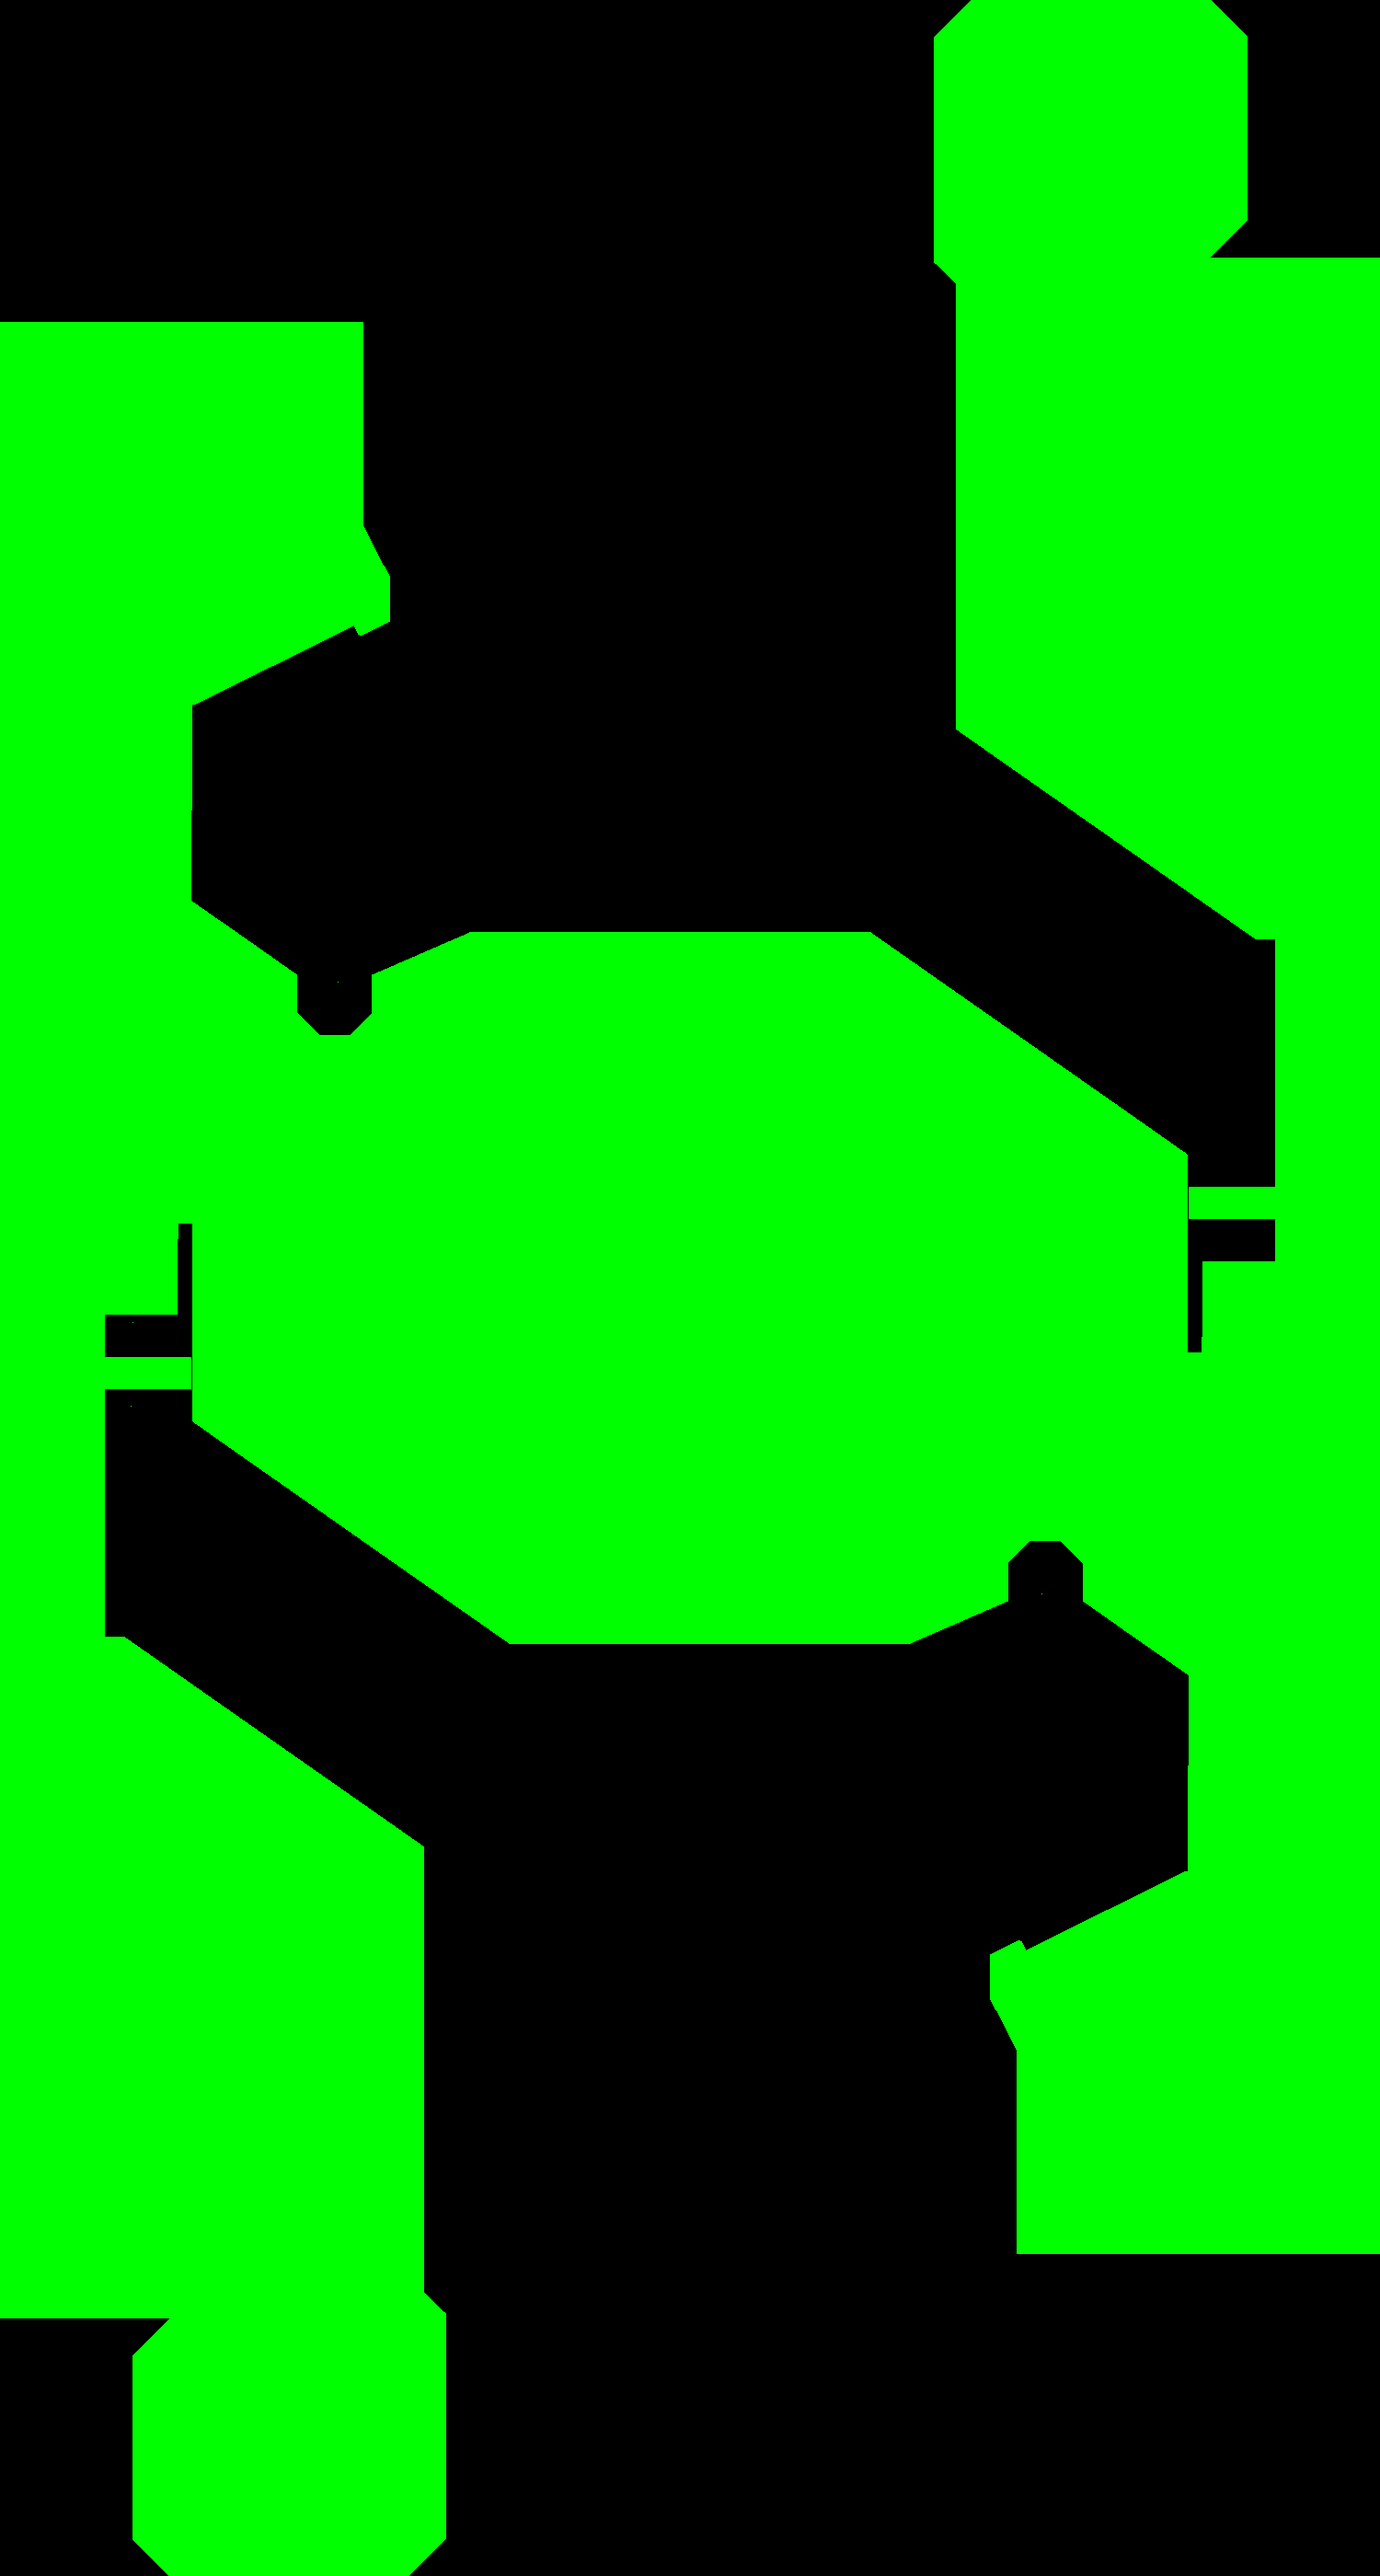
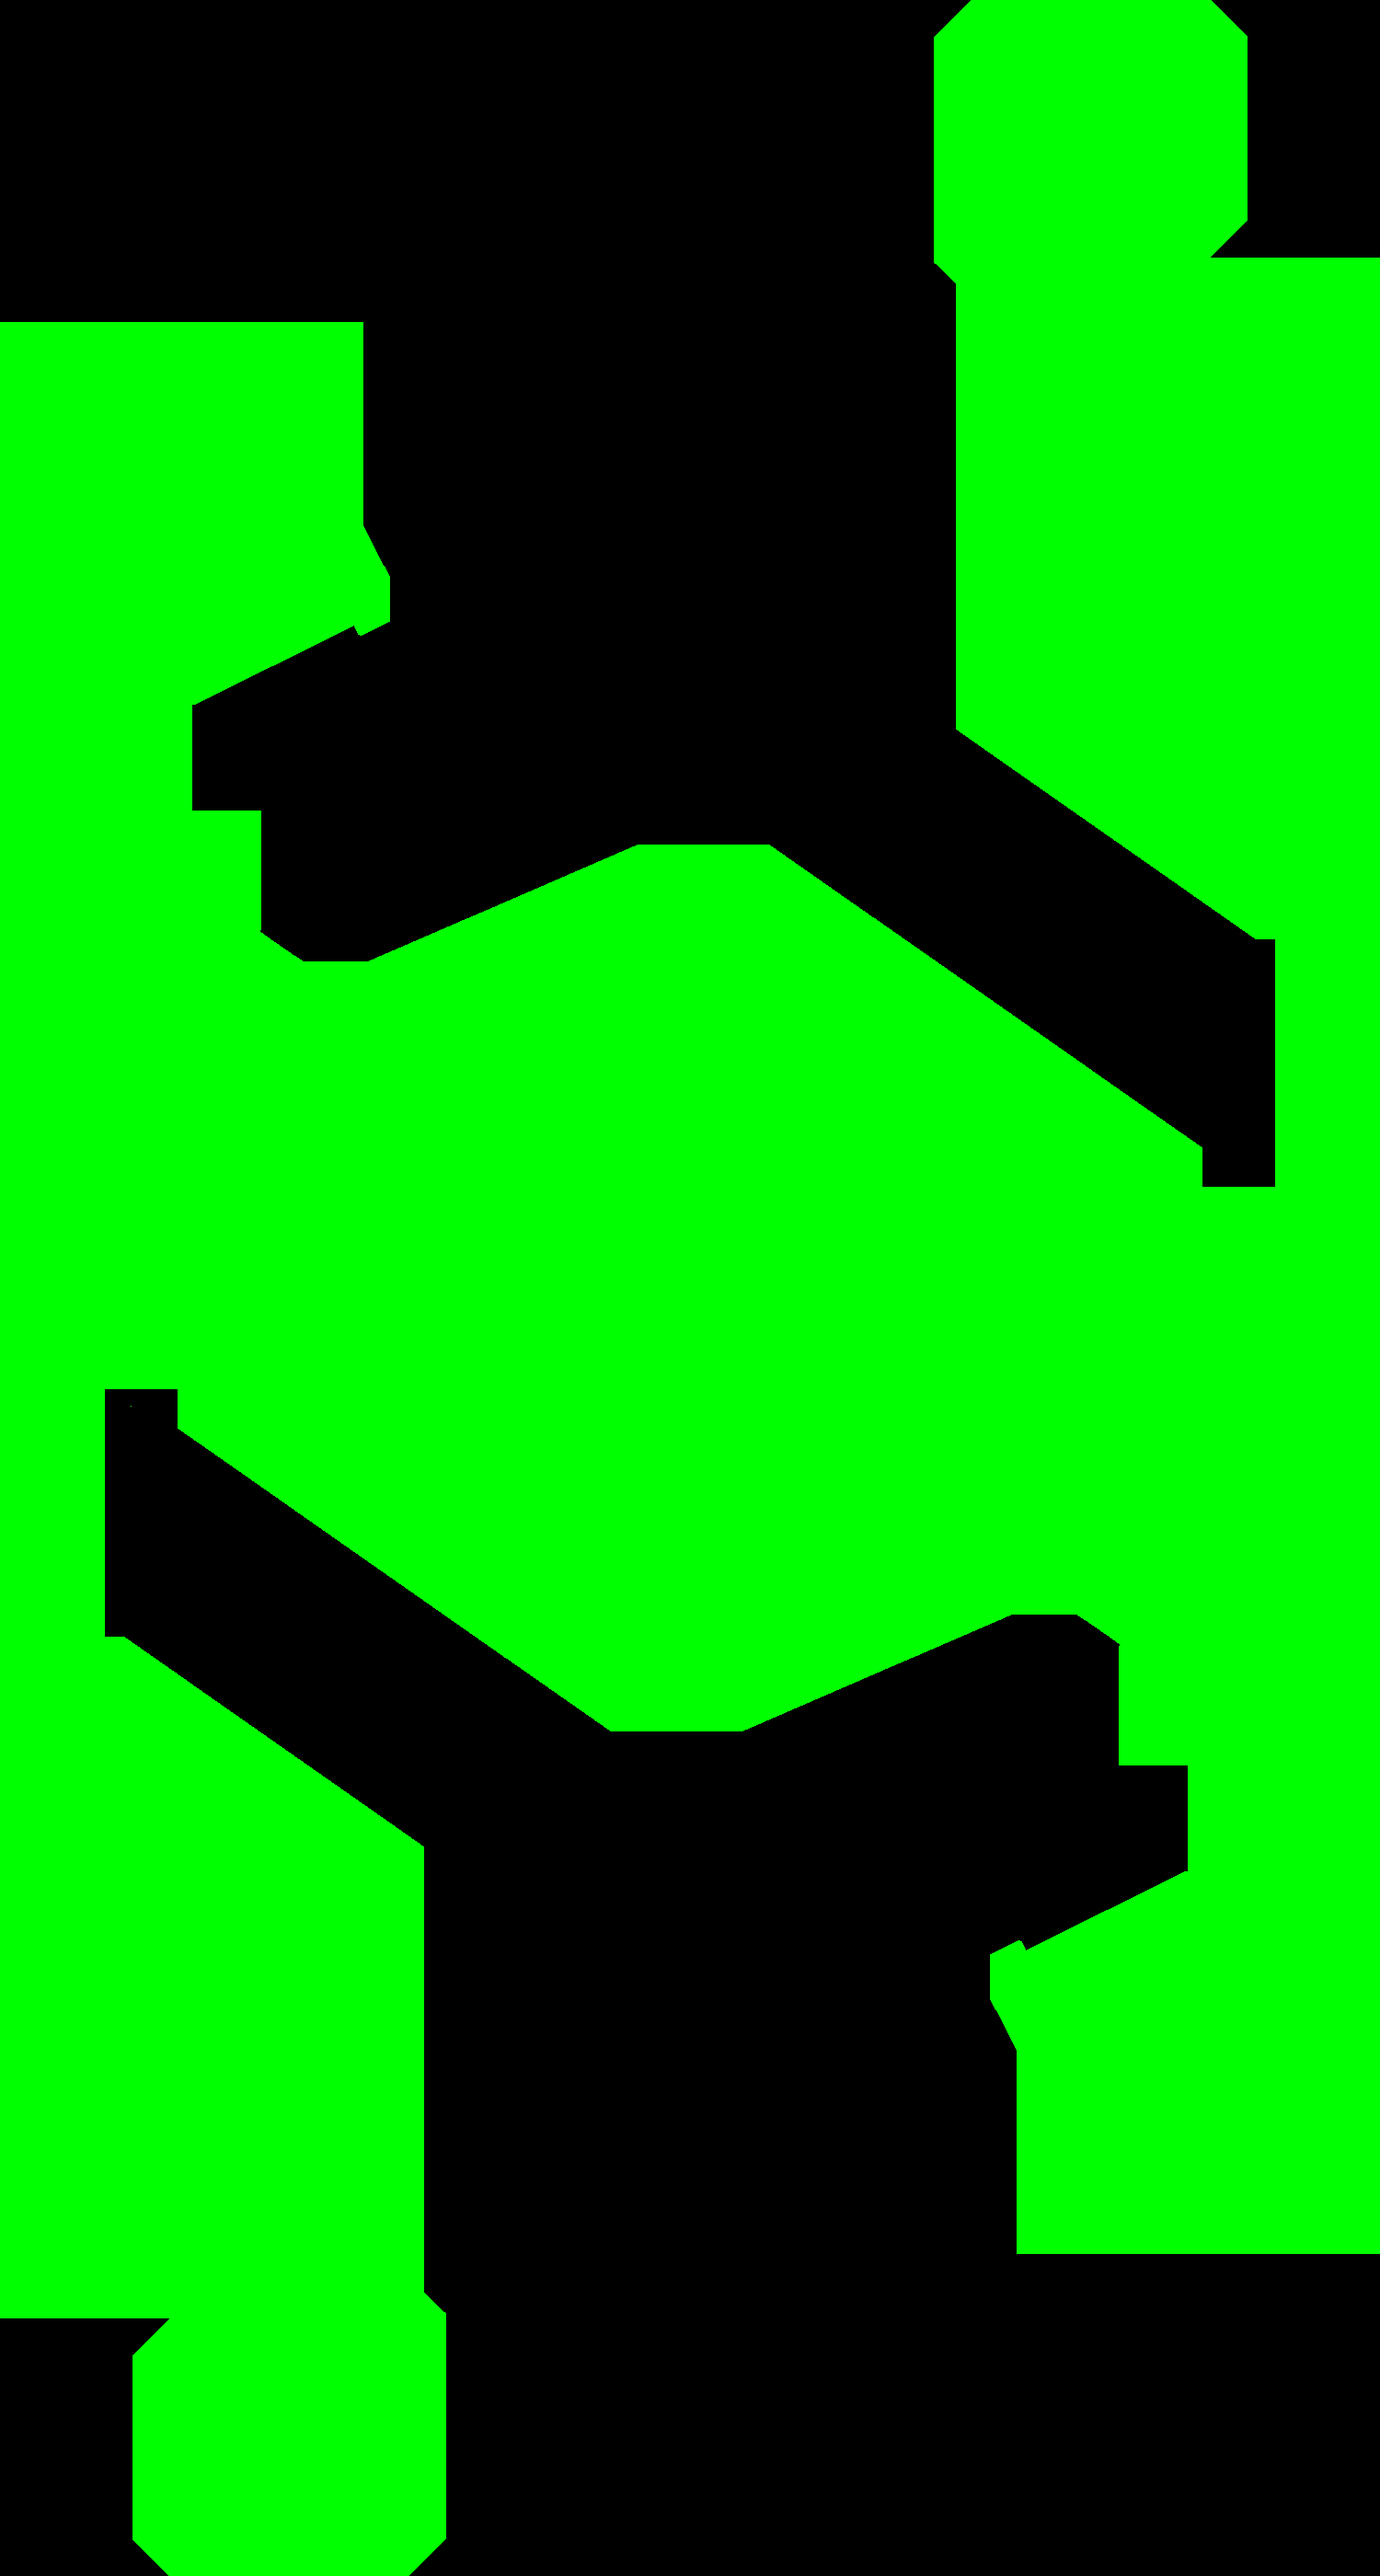
将中央高地两侧阶梯并入高层掩码

diff --git a/tool/build_2027_two_layer_mask.py b/tool/build_2027_two_layer_mask.py
@@ -35,7 +35,9 @@ def main():
     # "ground/road" comment does not describe this season's road geometry.
     # Fill enclosed object holes so a base/flag standing on highland cannot
     # accidentally select the ground homography. Keep the external boundaries.
-    highland = np.isin(labels, (3, 4, 5, 6)).astype(np.uint8) * 255
+    # Region 9 contains the central highland's two stair/edge bands. Merge
+    # their top-view footprints with the highland, as in the mask26 treatment.
+    highland = np.isin(labels, (3, 4, 5, 6, 9)).astype(np.uint8) * 255
     contours, _ = cv2.findContours(highland, cv2.RETR_EXTERNAL,
                                    cv2.CHAIN_APPROX_SIMPLE)
     filled = np.zeros_like(highland)
@@ -72,20 +74,30 @@ def main():
     fig.savefig(output / "comparison.png", dpi=150)
     plt.close(fig)
 
+    fig, axes = plt.subplots(2, 2, figsize=(10, 5), layout="constrained")
+    for row, (start, end, side) in enumerate(((850, 1125, "Upper"), (1675, 1950, "Lower"))):
+        for col, (pixels, title) in enumerate(((blue, "map"), (overlay, "high layer"))):
+            axes[row, col].imshow(pixels[start:end, 350:1150], interpolation="nearest")
+            axes[row, col].set_title(f"{side} stair band - {title}")
+            axes[row, col].axis("off")
+    fig.savefig(output / "stairs_detail.png", dpi=150)
+    plt.close(fig)
+
     files = {name: {"sha256": digest(output / name),
                     "size_px": list(Image.open(output / name).size)}
-             for name in [*masks, "overlay_blue.png", "comparison.png"]}
+             for name in [*masks, "overlay_blue.png", "comparison.png", "stairs_detail.png"]}
     write_json(output / "manifest.json", {
         "schema": "ysu.radar.two_layer_mask.v1",
-        "profile": "rmuc2027-v1.0.0-two-layer2",
+        "profile": "rmuc2027-v1.0.0-two-layer3",
         "source_sha256": SOURCE_SHA256,
         "terrain_manifest_sha256": digest(terrain / "manifest.json"),
         "display_manifest_sha256": digest(display / "manifest.json"),
         "mask26_reference_sha256": digest(old_mask),
         "encoding_rgb": {"M_ground": [0, 0, 0], "M_height_r": [0, 255, 0]},
-        "highland_region_ids": [3, 4, 5, 6],
-        "highland_regions": ["central_highland", "trapezoid_highland", "commanding_structure", "road_structure"],
+        "highland_region_ids": [3, 4, 5, 6, 9],
+        "highland_regions": ["central_highland", "trapezoid_highland", "commanding_structure", "road_structure", "tunnel_boundary"],
         "road_assignment_basis": "CAD road deck about 200 mm above local base ground; include ramps in second-layer footprint",
+        "stair_assignment_basis": "merge both central highland stair/edge bands (region 9) into the second-layer footprint, following mask26",
         "boundary_policy": "union of visible highland contours; enclosed object holes filled",
         "other_regions": "black unless enclosed inside highland external contours",
         "orientations": {"map_mask27.png": "blue_bottom",
@@ -96,6 +108,7 @@ def main():
         "format_compatible_with_legacy_two_layer_mask": True,
         "physical_validation": False,
         "limitations": ["Two homographies approximate different elevations and ramps.",
+                        "Stair/edge top-view footprints do not resolve lower tunnel passages.",
                         "Requires 2027 camera-to-map calibration; not 2026 matrices.",
                         "This is a layer selector, not an occlusion or forbidden-area mask.",
                         "Default configuration is not switched."],

diff --git a/docs/2027-adaptation/map2027_two_layer_mask.md b/docs/2027-adaptation/map2027_two_layer_mask.md
@@ -1,6 +1,6 @@
 # 2027 黑绿两层投影掩码
 
-制作日期：2026-11-13，版本 `rmuc2027-v1.0.0-two-layer2`。按原项目 `vision/images-2026/map_mask26.jpg` 的用途制作，继续使用两层选层方式。
+制作日期：2026-11-13，版本 `rmuc2027-v1.0.0-two-layer3`。按原项目 `vision/images-2026/map_mask26.jpg` 的用途制作，继续使用两层选层方式。
 
 ## 与源代码一致的编码
 
@@ -13,9 +13,13 @@
 
 ## 黑绿范围
 
-依据已核对的 V1.0.0 CAD 区域标签，将中央高地、两侧梯形高地、两侧制高点和抬升公路（原标签 3、4、5、6）的外轮廓设为绿色。填满这些轮廓内部被旗杆、基地等遮住的孔洞，让整个抬升地形范围统一选择第二层。基础地面及其余未包含在这些外轮廓内的区域保留黑色。
+依据已核对的 V1.0.0 CAD 区域标签，将中央高地、两侧梯形高地、两侧制高点、抬升公路及中央高地两侧阶梯/边缘带（原标签 3、4、5、6、9）的外轮廓设为绿色。填满这些轮廓内部被旗杆、基地等遮住的孔洞，让整个抬升地形范围统一选择第二层。基础地面及其余未包含在这些外轮廓内的区域保留黑色。
 
 第二版修正了第一版漏标公路的问题：旧代码“地面层、公路层”的注释不能直接作为 2027 选层依据。CAD 高度图中，用户指出的公路平台相对局部基础地面约高 200 mm；蓝方在下图像中的 `(120, 500)`、`(180, 900)`、`(180, 1200)` 像素均约为 200.07 mm。因此将两侧公路平台及其相连坡道轮廓一起归入绿色，而不是按“公路”名称直接设为黑色。上述数值来自图纸参考高度，不是现场测量值。
+
+第三版将中央高地两侧阶梯过渡带也并入绿色。它们位于 CAD 的 `中央高地_侧边隧道挡边` 两个部件中，在区域标签中归为第 9 类，之前按标签筛选时被遗漏；本版将这两个部件的顶视轮廓与高地统一处理。对照旧 `blue.jpg` 与 `map_mask26.jpg`，高地两侧过渡带的 `(750, 950)`、`(750, 1870)` 像素均为绿色，说明旧方案也将这些过渡区域统一归入第二层，没有逐级区分台阶。
+
+本版选择的是阶梯/边缘部件的顶视范围，不能据此区分同一位置的隧道下层通路。这里沿用用户指定的两层区域近似。
 
 这里的绿色是项目对第二张单应矩阵的区域选择，不表示所有高地处在同一个真实高度。高地和坡面归入两张矩阵仍是近似，需在 2027 场地重新标定并检查误差。这是投影选层图，不是相机遮挡区或规则禁区。
 
@@ -32,6 +36,7 @@
 | `map_mask27_topdown.png` | 横向红左蓝右，2800×1500 |
 | `overlay_blue.png` | 地胶底图叠加绿色范围，仅供人工核对 |
 | `comparison.png` | 从左到右：旧 mask26、新 mask27、2027 地胶叠加 |
+| `stairs_detail.png` | 高地两侧阶梯局部：左侧为地胶图，右侧为高层覆盖 |
 | `manifest.json` | 来源版本、输入/输出校验值、编码、方向、选区和像素统计 |
 
 两个竖向掩码相差 180°，须与当前使用的红/蓝底图和标定矩阵保持同向。现有配置只有一个 `paths.map_images.mask`，切换侧别时应相应选择该侧文件，不应假设两侧每个像素完全对称。应读取纯掩码，不能将叠加图或对照图用作掩码。
@@ -45,8 +50,8 @@
 实际验证：
 
 - 成功导出三方向 RGB PNG，颜色严格只有黑和绿；竖向尺寸与旧 mask26 同为 1500×2800。
-- 绿色 2,203,500 像素，其中填补轮廓内部结构孔洞 129,106 像素；全部原始 3、4、5、6 类像素都归入绿色。
-- 三方向旋转关系逐像素一致；轮廓外的基础地面保持黑色，原有高地区域保留，公路补标及对应 CAD 高度抽样检查通过。
+- 绿色 2,325,267 像素，其中填补轮廓内部结构孔洞 145,749 像素；全部原始 3、4、5、6、9 类像素都归入绿色。第 9 类的 105,124 个像素已全部覆盖。
+- 三方向旋转关系逐像素一致；原有高地和公路区域保留，新补阶梯带及封闭孔洞共增加 121,767 个绿色像素。阶梯带内外的抽样选层、旧 mask26 阶梯像素对照检查通过。
 - 从原 `main.py` 提取并执行实际投影辅助函数，在 555 个落点验证黑区保留第一层坐标、绿区采用第二层坐标，包含图像四角和边界点。
 - 检查图片完整性、输出清单校验值、脚本编译、`git diff --check`；目视检查新旧掩码和地胶叠加对照。
 

diff --git a/README.md b/README.md
@@ -149,7 +149,7 @@
   - [x] 已保留官方俯视图地胶和标线，生成对齐 CAD 参考画布的横向及红蓝竖向显示图、可复现 SVG 和配准记录；完成原图保留、尺寸、方向与匹配覆盖检查。仅完成参考资产制作，尚未切换比赛默认地图或完成现场外参验收。
 - [ ] 更新地图遮挡掩码、盲区多边形、预测点和禁用区域，覆盖新赛季高地、隧道、机库平台、工作台、风机等结构。
   - [x] 已从 CAD 真实轮廓制作 12 类地形候选分区、坡面与结构审阅掩码，提供横向/红蓝方向、无损标签和地胶叠加预览；通过部件绑定、深度/法向一致性、版本拒绝与资产完整性检查。见 [地形候选分区记录](docs/2027-adaptation/map2027_terrain_regions.md)。相机视角遮挡、规则禁区、盲区预测点和现场验收仍未完成，未直接接入旧两层投影。
-  - [x] 已按 `mask26` 制作黑绿两层 `map_mask27.png`：基础地面选第一层，中央/梯形高地、制高点及抬升公路选第二层；第二版已按 CAD 约 200 mm 的公路平台高度修正漏标。提供红蓝和横向版本、地胶叠加及新旧对照；无损编码、方向和原投影函数选层检查通过，见 [两层掩码说明](docs/2027-adaptation/map2027_two_layer_mask.md)。默认配置未切换，2027 两层矩阵与现场误差验收仍待完成。
+  - [x] 已按 `mask26` 制作黑绿两层 `map_mask27.png`：基础地面选第一层，中央/梯形高地、制高点、抬升公路及中央高地两侧阶梯过渡带选第二层；第二版补齐约 200 mm 的抬升公路，第三版补齐两侧阶梯。提供红蓝和横向版本、地胶叠加、新旧对照及阶梯局部图；无损编码、方向和原投影函数选层检查通过，见 [两层掩码说明](docs/2027-adaptation/map2027_two_layer_mask.md)。默认配置未切换，2027 两层矩阵与现场误差验收仍待完成。
 - [ ] 调整地图投影模型，不能将起伏地形全部当作单一平面；评估分区单应、地面高度补偿或其他适合当前相机安装条件的方案。
 - [ ] 按新赛季雷达基座/相机安装高度重新采集标定点，更新红蓝标定预设和现场标定说明；旧赛季矩阵必须明确标记为不可用于 2027。
 - [ ] 完成海康到迈德威视 MV-SUA133GC-T 的相机迁移验收：默认输入切换为 MindVision SDK，Linux 启动脚本能加载 SDK 与 Python 包；在实机上核对彩色 BGR 帧、实际分辨率、连续采集稳定性和曝光设置。保留海康/USB/测试输入作为兼容模式；不将海康 dB 增益值映射到迈德威视。

diff --git a/vision/images-2027/README.md b/vision/images-2027/README.md
@@ -39,6 +39,6 @@
 
 ## 与 mask26 一致的黑绿两层掩码
 
-`two-layer-v1.0.0/map_mask27.png` 是蓝方在下的黑绿选层图，另有红方在下和横向版本。黑色选择 `M_ground`（基础地面），绿色选择 `M_height_r`（中央高地、梯形高地、制高点及抬升公路），沿用原程序两层逻辑，无需新增多类解析。第二版依据 CAD 约 200 mm 的公路平台高度修正了漏标，不能直接沿用旧注释将所有公路归入基础地面。
+`two-layer-v1.0.0/map_mask27.png` 是蓝方在下的黑绿选层图，另有红方在下和横向版本。黑色选择 `M_ground`（基础地面），绿色选择 `M_height_r`（中央高地及两侧阶梯过渡带、梯形高地、制高点、抬升公路），沿用原程序两层逻辑，无需新增多类解析。第二版补齐约 200 mm 的抬升公路，第三版按 mask26 的处理补齐两侧阶梯；`stairs_detail.png` 可核对阶梯覆盖。
 
 该目录中的 `comparison.png` 提供 mask26、新掩码和地胶叠加对照。方向、复现与实际验证见 [两层掩码说明](../../docs/2027-adaptation/map2027_two_layer_mask.md)。比赛默认配置未切换，仍需配套 2027 两层标定矩阵和现场核验。
